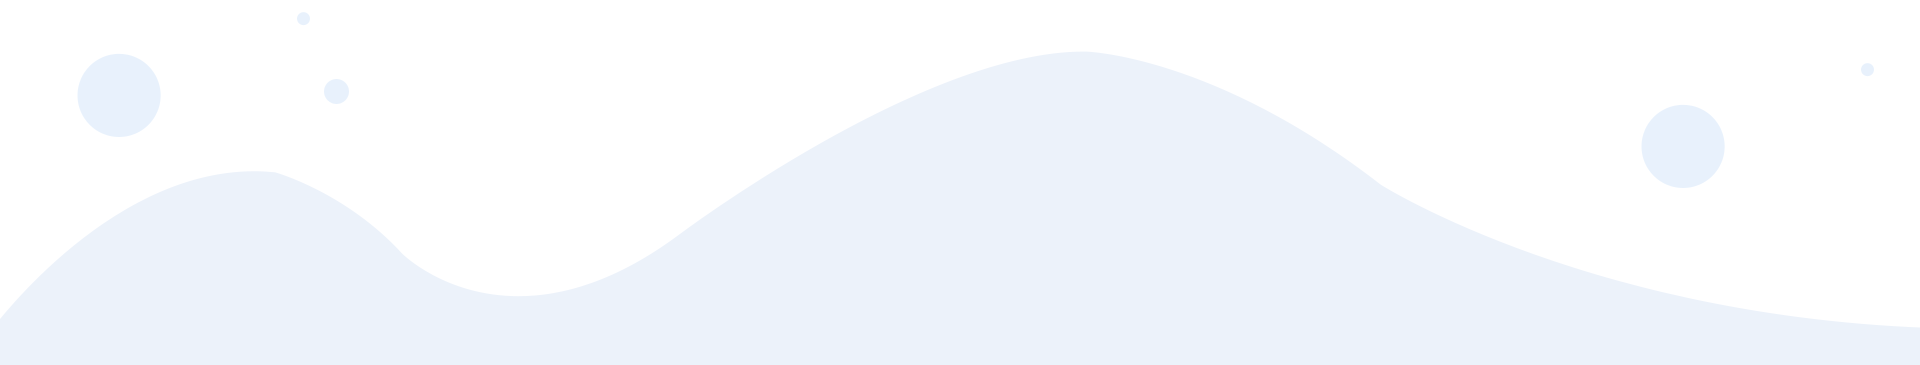
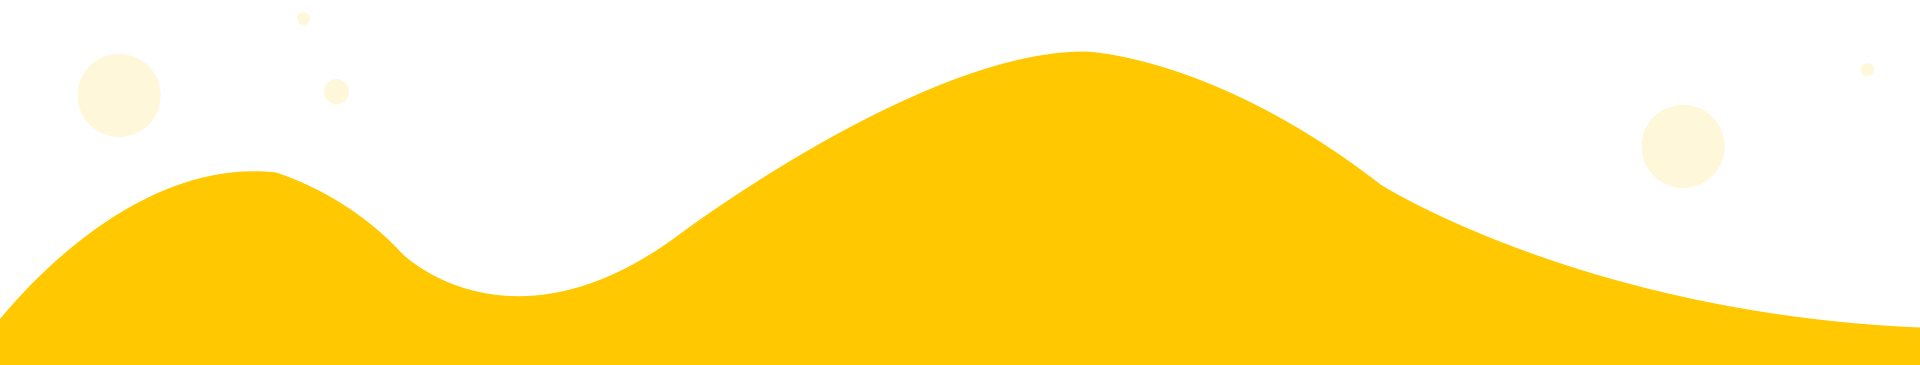
section our clinics

diff --git a/public/frontAssets/css/styles.css b/public/frontAssets/css/styles.css
@@ -11787,7 +11787,7 @@ section#contact form#contactForm :-ms-input-placeholder {
 
 footer{
     width:100%;
-    background-color:#ecf1fa;
+    background-color:#ffc800;
     padding-top:30px;
     font-family: 'Open Sans', sans-serif;
 }
@@ -11797,7 +11797,7 @@ footer .column{
     display:inline-block;
     vertical-align:top;
     padding:10px;
-    background:#ecf1fa;
+    background:#ffc800;
 }
 
 footer .column .footer_title{
